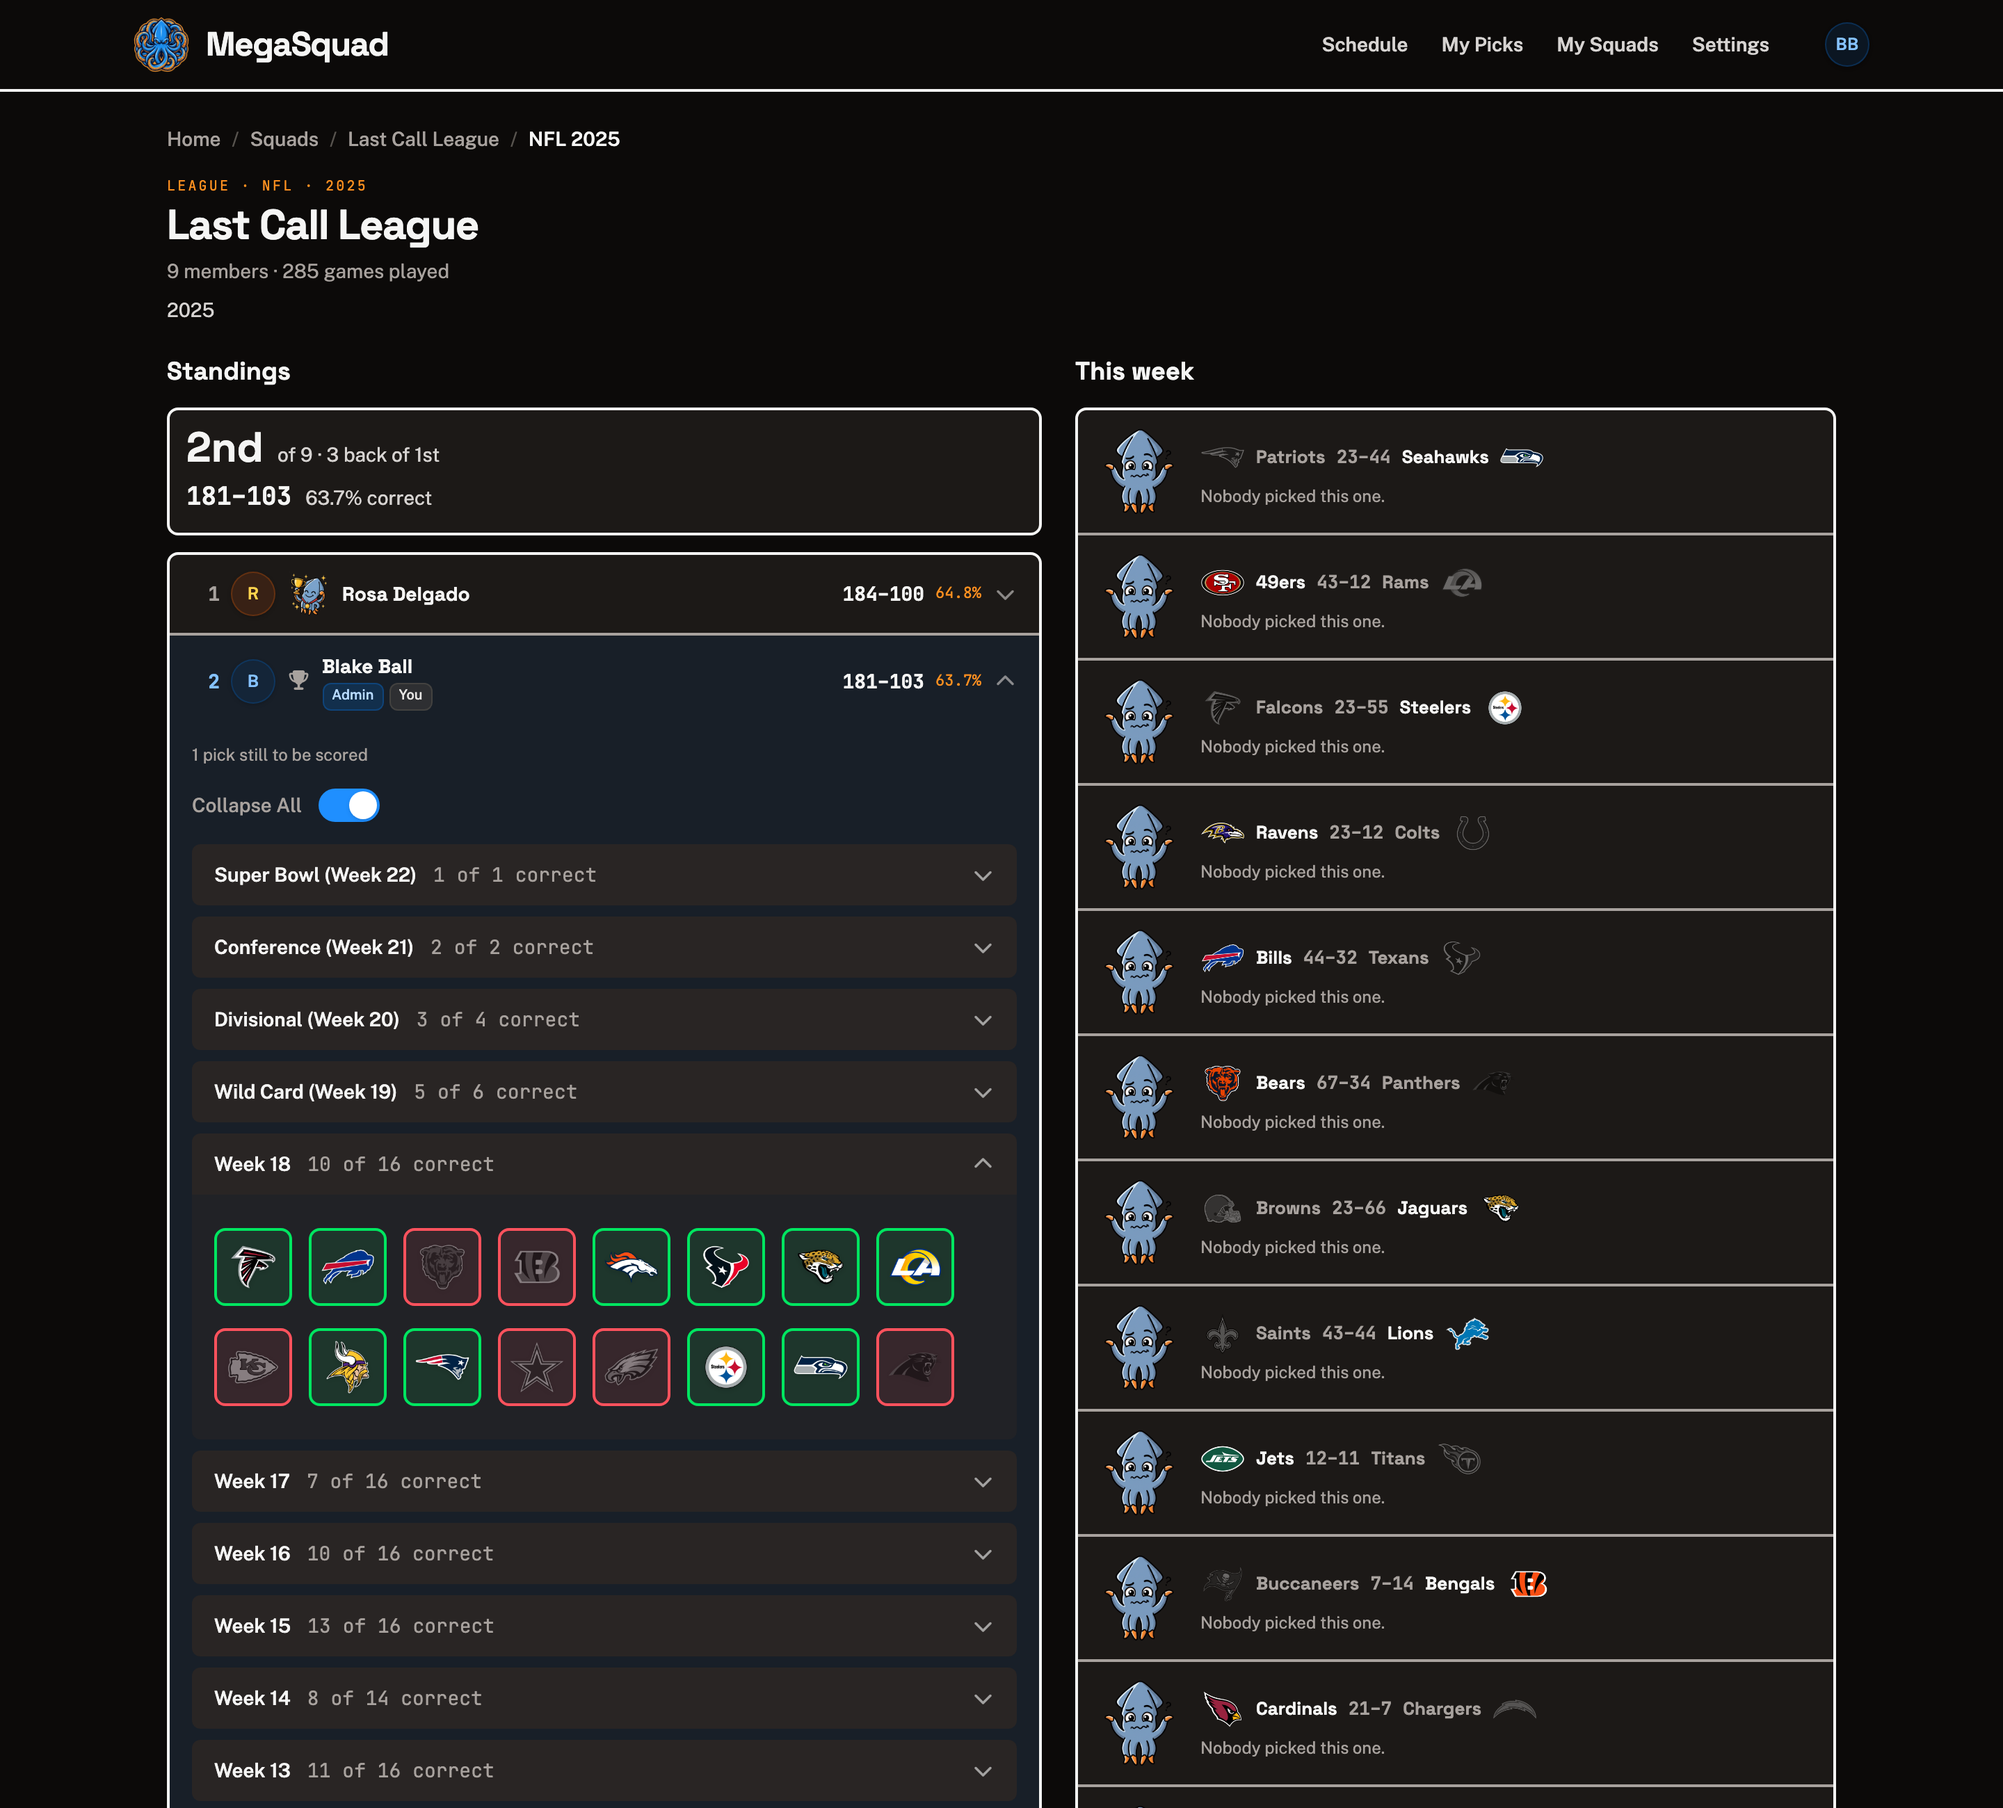
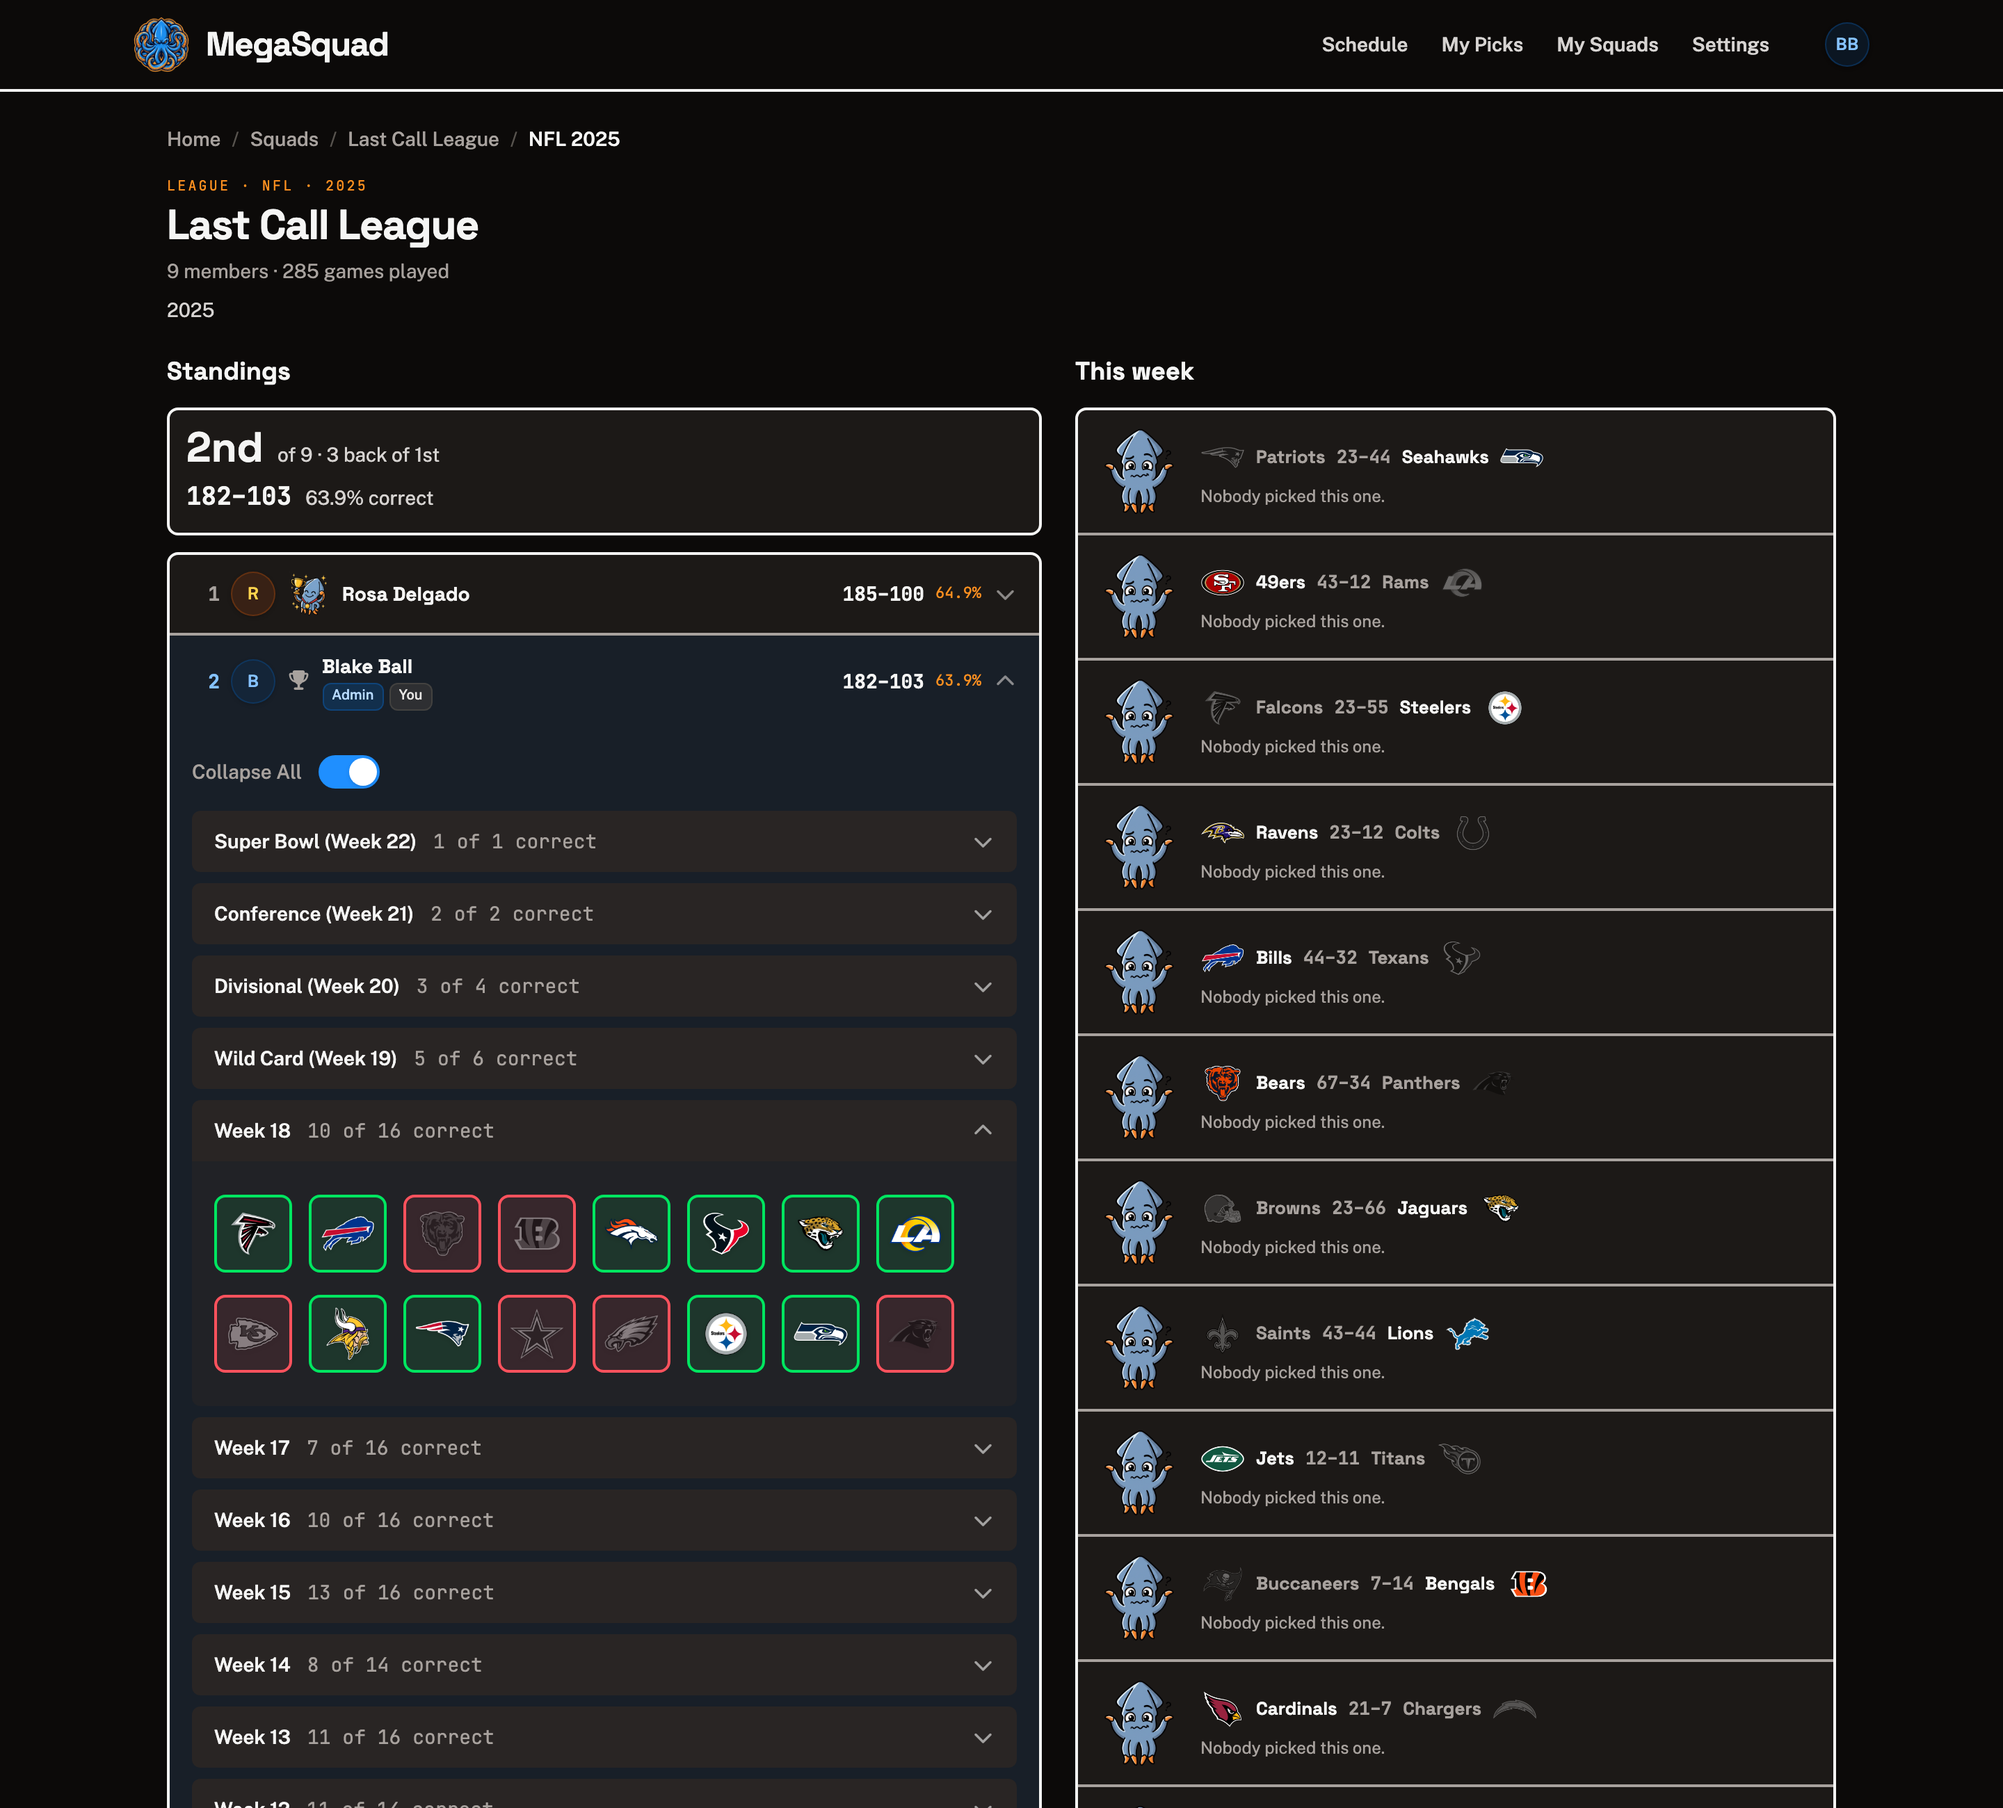
fix(megasquad): correct the 2025 record after the tie rule settled

diff --git a/src/content/case-studies.tsx b/src/content/case-studies.tsx
@@ -1136,7 +1136,7 @@ export const caseStudies: Record<string, CaseStudy> = {
     lede: "Multi-sport pick’ems for your friend group. Thirteen leagues across five sports, picks that auto-lock at tip-off, and standings that settle the trash talk. I built the front end; my brother built the API.",
     stats: [
       { value: "13", label: "Leagues supported", source: "five sports, 21 competitions" },
-      { value: "284", label: "Games in one season", source: "scored, reconciled, settled" },
+      { value: "285", label: "Games in one season", source: "scored, reconciled, settled" },
       { value: "32", label: "Ways it answers back", source: "13 hits, 12 misses, 7 scoldings" },
       { value: "30 s", label: "Poll interval", source: "idle after 5 min" },
     ],
@@ -1223,19 +1223,19 @@ export const caseStudies: Record<string, CaseStudy> = {
           dek="A win-loss record tells you nothing about where it went wrong, so every row opens into the weeks, with each team you picked badged green for a win and red for a loss."
         >
           <p>
-            A record of 181&ndash;103 tells you almost nothing. The interesting question is{" "}
+            A record of 182&ndash;103 tells you almost nothing. The interesting question is{" "}
             <em>where</em> it went wrong. So standings expand into a per-week breakdown, and each
             week shows the actual team logos you picked, badged correct or incorrect.
           </p>
           <Pull cite="One season, read at a glance">
-            63.7% across 284 games. The playoffs alone go 11 of 13: Wild Card 5 of 6,
+            63.9% across 285 games. The playoffs alone go 11 of 13: Wild Card 5 of 6,
             Divisional 3 of 4, Conference 2 of 2, the Super Bowl called. Divisional is the round
             that slipped, and now it has a name.
           </Pull>
           <Shot
             press={expandedLight}
             blueline={expandedDark}
-            alt="An expanded MegaSquad standings row at 181-103 and 63.7% correct, opening into per-week results (Super Bowl 1 of 1, Conference 2 of 2, Divisional 3 of 4, Wild Card 5 of 6) with Week 18 open below them, showing sixteen team crests each outlined green for a correct pick or red for a wrong one."
+            alt="An expanded MegaSquad standings row at 182-103 and 63.9% correct, opening into per-week results (Super Bowl 1 of 1, Conference 2 of 2, Divisional 3 of 4, Wild Card 5 of 6) with Week 18 open below them, showing sixteen team crests each outlined green for a correct pick or red for a wrong one."
             caption="A season, opened week by week"
           />
           <p>

diff --git a/src/lib/projects.ts b/src/lib/projects.ts
@@ -151,7 +151,10 @@ export const projects: Project[] = [
     world: { press: "#c62828", blueline: "#e23b3b" },
     props: [
       { label: "Stack", value: "Vite · React 19 · Zustand" },
-      { label: "Scale", value: "10 leagues · 18 Roster components", accent: true },
+      /* Thirteen, not ten. This card repeated a figure the case study owns and
+         drifted a month behind it, which is the exact failure the comment two
+         entries above describes. Verified against the live API, 15 Sept 2026. */
+      { label: "Scale", value: "13 leagues · 18 Roster components", accent: true },
       { label: "Note", value: "Front end mine, API my brother's" },
     ],
   },
